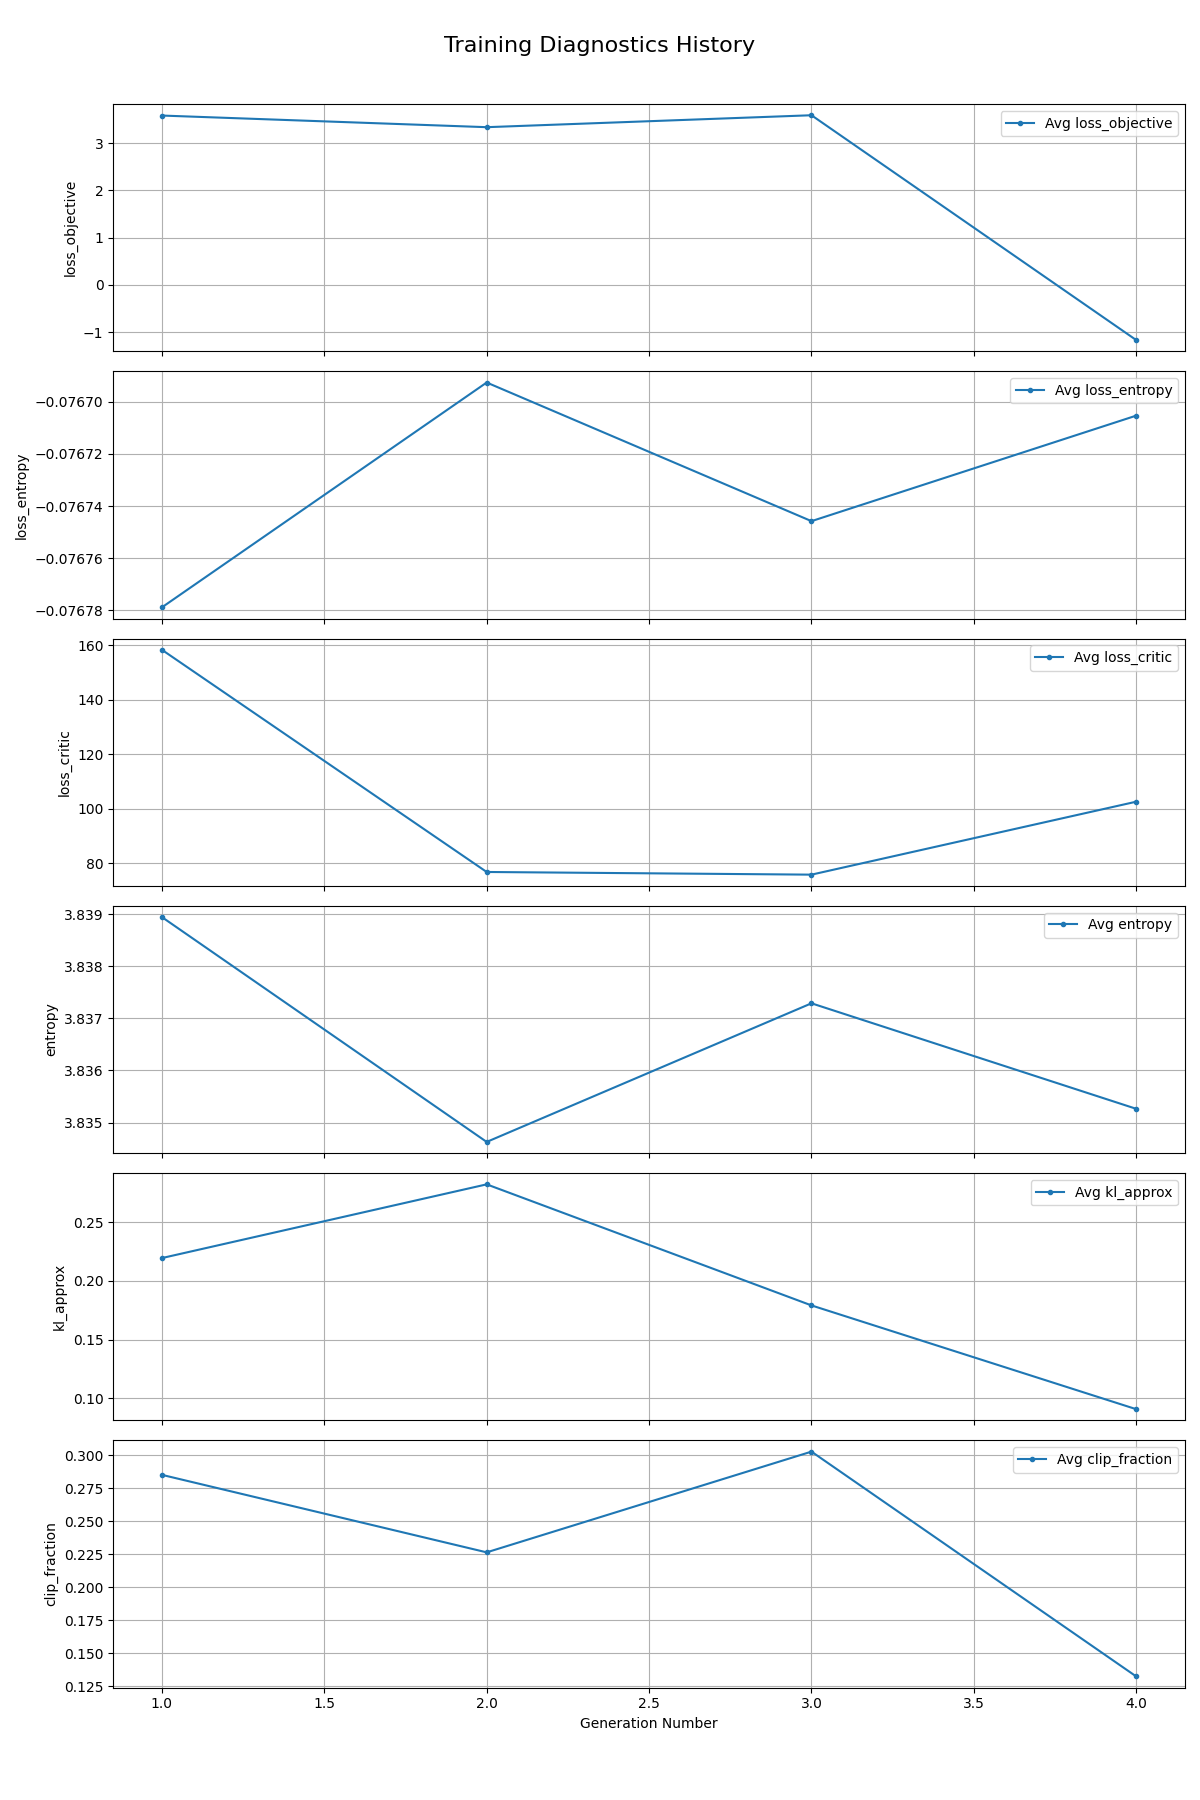
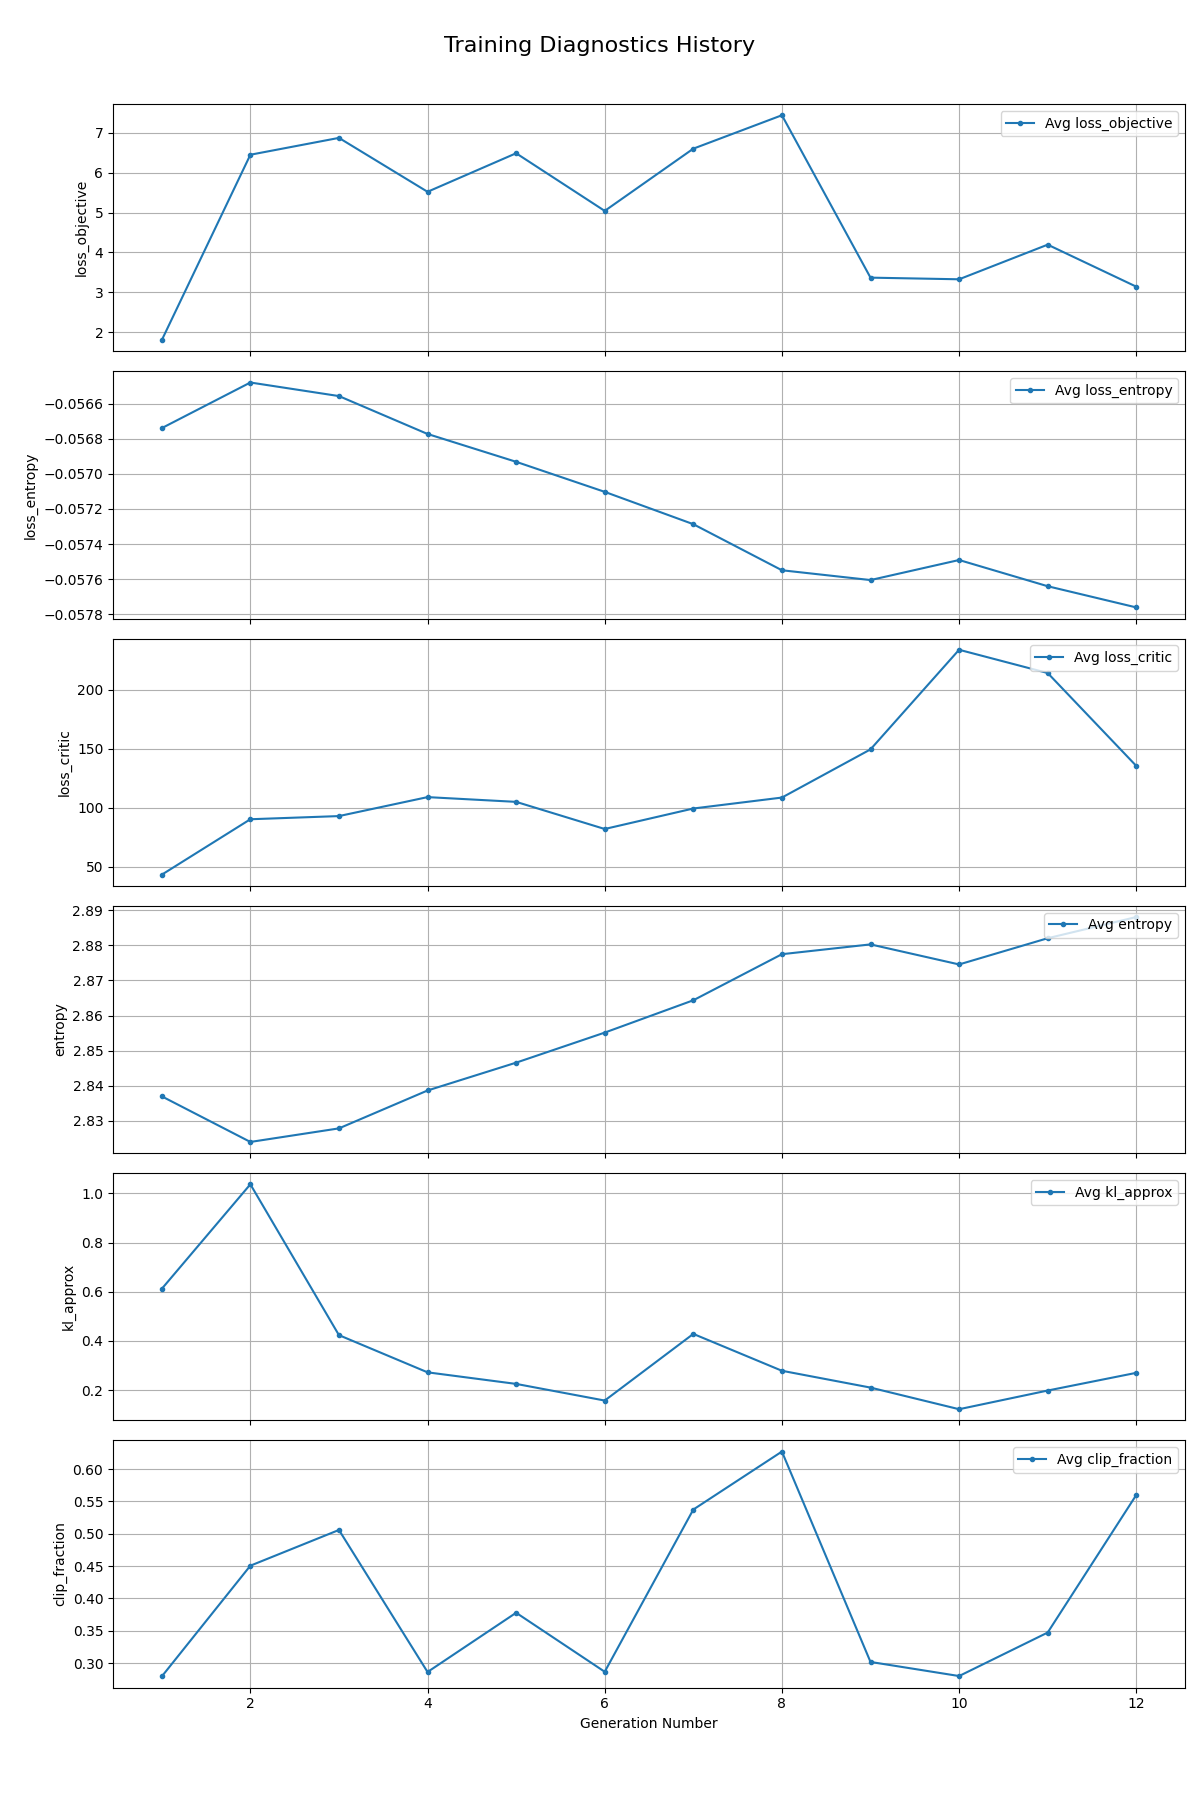
Moved done matrix, increased step size, increased total timesteps

diff --git a/ppo_agent.py b/ppo_agent.py
@@ -15,7 +15,7 @@ from torch.distributions import Normal, Independent
 from model import ActorNetwork, CriticNetwork
 
 class PPOAgent:
-    def __init__(self, num_agents, map_name, total_generations):
+    def __init__(self, num_agents, map_name, steps):
         # --- Hyperparameters ---
         self.num_agents = num_agents
         self.device = torch.device("cuda" if torch.cuda.is_available() else "cpu")
@@ -24,7 +24,7 @@ class PPOAgent:
         self.lr_critic = 3e-4
         self.gamma = 0.99  # Discount factor for future rewards
         self.gae_lambda = 0.95 # Lambda for GAE (Advantage calculation)
-        self.clip_epsilon = 0.2 # PPO clip parameter
+        self.clip_epsilon = 0.15 # PPO clip parameter
         self.state_dim = 3 # x_vel, y_vel, z_ang_vel
         self.num_scan_beams = 1080
         self.minibatch_size = 8192
@@ -71,7 +71,8 @@ class PPOAgent:
             critic_network=self.critic_module,
             clip_epsilon=self.clip_epsilon,
             entropy_coeff=0.02,
-            loss_critic_type="l2"
+            loss_critic_type="l2",
+            normalize_advantage=True
         )
         
         self.advantage_module = GAE(
@@ -83,7 +84,7 @@ class PPOAgent:
 
         # --- Storage ---
         self.buffer = TensorDictReplayBuffer(
-            storage=ListStorage(max_size=1024) # 2048 steps per generation
+            storage=ListStorage(max_size=steps) # 2048 steps per generation
         )
         
         # --- Diagnostics ---
@@ -254,6 +255,7 @@ class PPOAgent:
             reward = current_speed * self.SPEED_REWARD_SCALAR # Encourages forward movement while discouraging backwards movement
             
             
+            
             # -- Raceline Reward --
             # Logic: Find closest waypoint ahead of last achieved waypoint AND within lookahead distance
             #        Then calculate progress along raceline at waypoint, subtract from last distance_s
@@ -274,7 +276,7 @@ class PPOAgent:
             # Update tracker and add shaped reward
             self.last_cumulative_distance[i] = current_s
             self.last_wp_index[i] = global_wp_index
-            waypoint_weight = self.generation_counter / 20 if self.generation_counter < 20 else 1.0
+            waypoint_weight = self.generation_counter / 10 if self.generation_counter < 20 else 1.0
             # print(f"Speed: {reward}")
             # print(f"Progress: {progress * self.PROGRESS_REWARD_SCALAR * waypoint_weight}")
             reward += progress * self.PROGRESS_REWARD_SCALAR * waypoint_weight
@@ -286,10 +288,8 @@ class PPOAgent:
             reward -= abs(sideways_speed) * self.SLIDE_PENALTY_SCALAR
             
             
-            
             # -- Collision Penalty --
-            if next_obs['collisions'][i]:
-                reward -= self.AGENT_PENALTY
+            reward -= self.AGENT_PENALTY * next_obs['collisions'][i]
                 
             rewards.append(reward)
         return rewards, np.array(rewards).mean() # Return list and avg

diff --git a/train.py b/train.py
@@ -26,10 +26,10 @@ params_dict = {'mu': 1.0489,
                }
 
 # --- Main Training Parameters ---
-NUM_AGENTS = 25
+NUM_AGENTS = 20
 MAP_NAMES = ["YasMarina", "Catalunya", "Monza", "Silverstone", "Mexico City"]
-TOTAL_TIMESTEPS = 1_000_000
-STEPS_PER_GENERATION = 1024 # How long we "play" before "coaching"
+TOTAL_TIMESTEPS = 2_000_000
+STEPS_PER_GENERATION = 2048 # How long we "play" before "coaching"
 MAX_EPISODE_TIME = 20.0 # Max time in seconds before an episode resets
 LIDAR_BEAMS = 1080  # Default is 1080
 LIDAR_FOV = 4.7   # Default is 4.7 radians (approx 270 deg)
@@ -50,8 +50,8 @@ env = gym.make(
 num_generations = TOTAL_TIMESTEPS // STEPS_PER_GENERATION
 agent = PPOAgent(
     num_agents=NUM_AGENTS, 
-    map_name=CURRENT_MAP, 
-    total_generations=num_generations
+    map_name=CURRENT_MAP,
+    steps=STEPS_PER_GENERATION
     )
 
 # --- Reset Environment ---
@@ -74,8 +74,6 @@ for gen in range(num_generations):
     for step in range(STEPS_PER_GENERATION):
         env.render(mode='human_fast')
         
-        done_mat = (1 - obs['collisions']) * done_mat
-        
         # Get Action from Agent
         scan_tensors, state_tensor = agent._obs_to_tensors(obs)
         action_tensor, log_prob_tensor, value_tensor = agent.get_action_and_value(
@@ -90,6 +88,9 @@ for gen in range(num_generations):
         
         # Step the Environment
         next_obs, timestep, done_from_env, info = env.step(action_np)
+        
+        # Update Done Matrix
+        done_mat = (1 - next_obs['collisions']) * done_mat
         
         # Calculate Reward
         rewards_list, avg_reward = agent.calculate_reward(next_obs)
@@ -136,7 +137,7 @@ for gen in range(num_generations):
         print(f"New best model saved with avg reward: {best_avg_reward:.3f}")
     else:
         patience += 1
-        print("No improvement in avg reward. Patience: {patience}")
+        print(f"No improvement in avg reward. Patience: {patience}")
 
     if patience >= PATIENCE:
         print("Early stopping triggered due to no improvement.")
